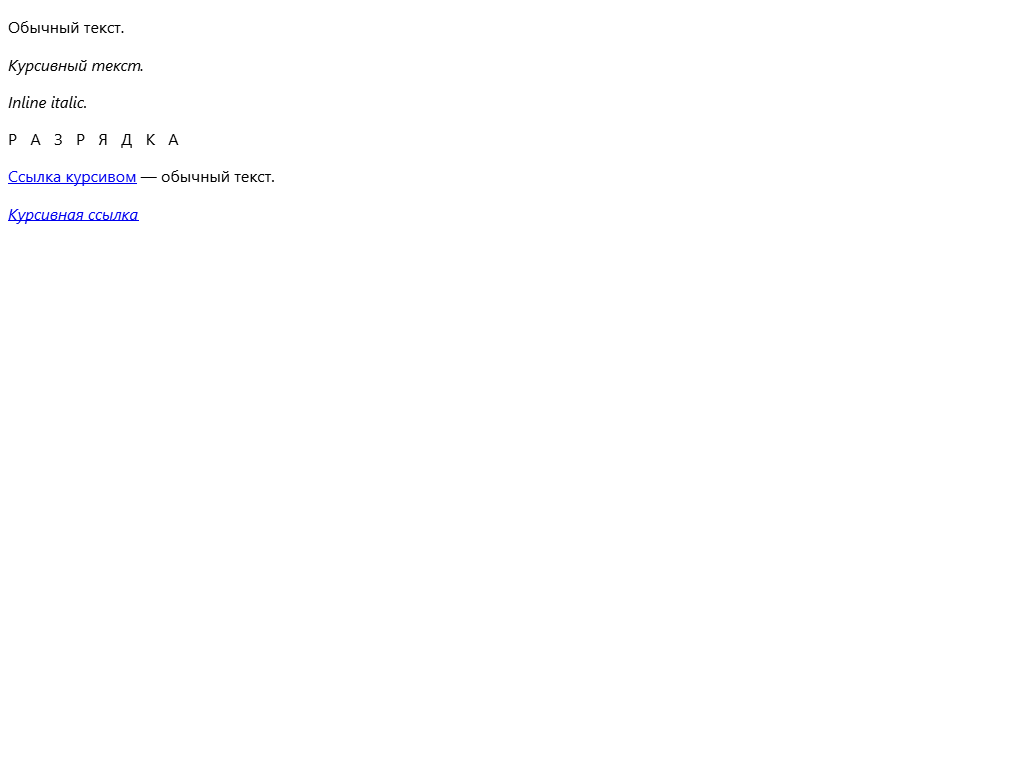
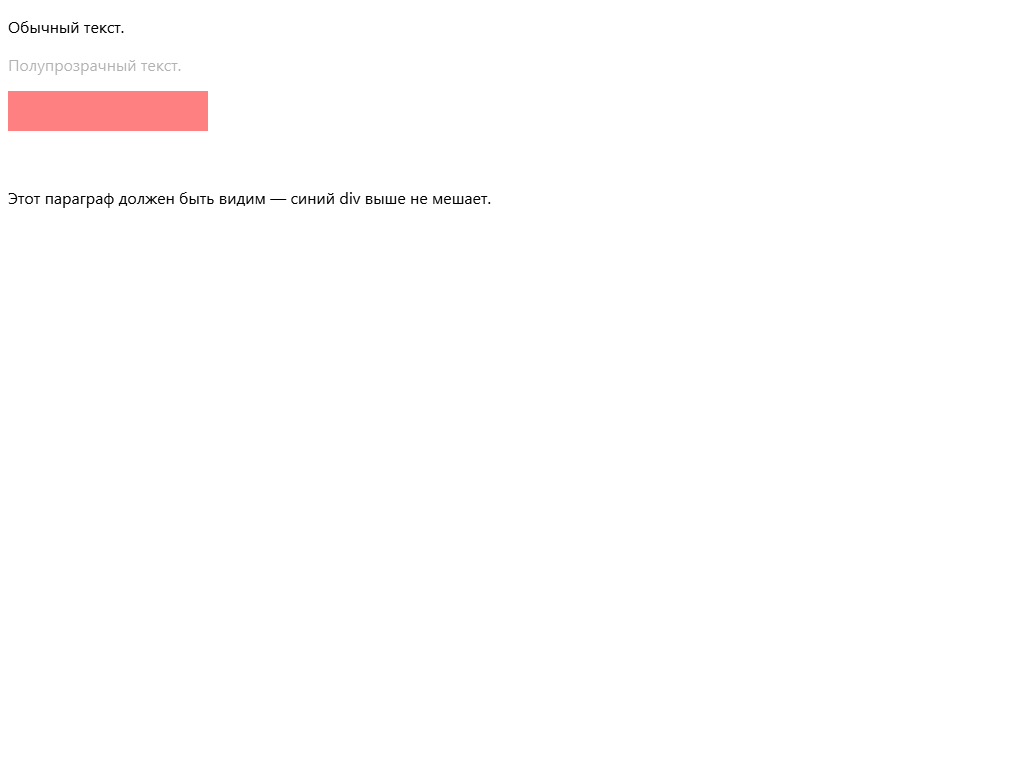
Feature: visibility: hidden + opacity
- DisplayItem: opacity field
- DisplayListBuilder: skip paint when hidden (layout still applies),
  carry opacity_q to every item
- Renderer (PNG + desktop ×2): QPainter::setOpacity per item
- Tests: 7 new [ltb][visibility] / [ltb][opacity], 111 total green

TODO: proper stacking context for nested opacity

Changed region(s): [[0.0, 0.0625, 0.2188, 0.1875], [0.0, 0.2188, 0.25, 0.3125], [0.2812, 0.25, 0.4688, 0.2812]]

diff --git a/test.html b/test.html
@@ -1,10 +1,9 @@
 <html>
 <body>
     <p>Обычный текст.</p>
-    <p><em>Курсивный текст.</em></p>
-    <p><span style="font-style: italic">Inline italic.</span></p>
-    <p><span style="letter-spacing: 3px">Р А З Р Я Д К А</span></p>
-    <p><a href="#">Ссылка курсивом</a> — обычный текст.</p>
-    <p><em><a href="#">Курсивная ссылка</a></em></p>
+    <p style="opacity: 0.3">Полупрозрачный текст.</p>
+    <div style="opacity: 0.5; background-color: red; width: 200px; height: 40px"></div>
+    <div style="visibility: hidden; background-color: blue; width: 200px; height: 40px"></div>
+    <p>Этот параграф должен быть видим — синий div выше не мешает.</p>
 </body>
 </html>

diff --git a/tests/layout_tree_builder_tests.cpp b/tests/layout_tree_builder_tests.cpp
@@ -1746,3 +1746,118 @@ TEST_CASE("LTB integration: <hr> border is gray",
     }
     REQUIRE(found_gray);
 }
+
+
+
+// ============================================================
+//  Этап 5: visibility: hidden + opacity
+// ============================================================
+
+TEST_CASE("LTB visibility: hidden skips own paint",
+    "[ltb][visibility]") {
+    ArenaAllocator arena;
+    auto p = run_pipeline(arena,
+        "<div style='visibility: hidden; background-color: red;"
+        "            width: 50px; height: 50px'></div>",
+        "html, body, div { display: block; margin: 0; padding: 0; }");
+
+    DisplayList dl = DisplayListBuilder::build(p.root.get(), p.storage);
+
+    // Ни одного красного rect быть не должно.
+    for (const auto& it : dl.items) {
+        if (it.type == DisplayItemType::Rect)
+            REQUIRE(it.color != 0xFF0000FFu);
+    }
+}
+
+TEST_CASE("LTB visibility: hidden still lays out children",
+    "[ltb][visibility]") {
+    // visibility: hidden не убирает из layout (в отличие от display: none).
+    ArenaAllocator arena;
+    auto p = run_pipeline(arena,
+        "<div style='visibility: hidden; height: 40px'></div>",
+        "html, body, div { display: block; margin: 0; padding: 0; }");
+
+    LayoutNode* body = child_of_type(p.root.get(), BoxType::Block);
+    REQUIRE(body != nullptr);
+    LayoutNode* div = child_of_type(body, BoxType::Block);
+    REQUIRE(div != nullptr);
+    REQUIRE(div->geometry.height == 40.0f);
+}
+
+TEST_CASE("LTB visibility: visible child inside hidden parent",
+    "[ltb][visibility]") {
+    ArenaAllocator arena;
+    auto p = run_pipeline(arena,
+        "<div style='visibility: hidden; background-color: red;"
+        "            width: 100px; height: 100px'>"
+        "  <span style='visibility: visible; background-color: blue;"
+        "               display: inline-block; width: 10px; height: 10px'></span>"
+        "</div>",
+        "html, body, div { display: block; margin: 0; padding: 0; }");
+
+    DisplayList dl = DisplayListBuilder::build(p.root.get(), p.storage);
+
+    bool has_red = false, has_blue = false;
+    for (const auto& it : dl.items) {
+        if (it.type != DisplayItemType::Rect) continue;
+        if (it.color == 0xFF0000FFu) has_red = true;
+        if (it.color == 0x0000FFFFu) has_blue = true;
+    }
+    REQUIRE_FALSE(has_red);
+    REQUIRE(has_blue);
+}
+
+TEST_CASE("LTB opacity: carried to DisplayItem",
+    "[ltb][opacity]") {
+    ArenaAllocator arena;
+    auto p = run_pipeline(arena,
+        "<span style='opacity: 0.5'>x</span>",
+        "html, body, span { display: inline; }");
+
+    DisplayList dl = DisplayListBuilder::build(p.root.get(), p.storage);
+    const DisplayItem* item = find_text_item(dl, "x");
+    REQUIRE(item != nullptr);
+    REQUIRE(item->opacity == Approx(0.5f).epsilon(0.01));
+}
+
+TEST_CASE("LTB opacity: zero carried to DisplayItem",
+    "[ltb][opacity]") {
+    ArenaAllocator arena;
+    auto p = run_pipeline(arena,
+        "<span style='opacity: 0'>x</span>",
+        "html, body, span { display: inline; }");
+
+    DisplayList dl = DisplayListBuilder::build(p.root.get(), p.storage);
+    const DisplayItem* item = find_text_item(dl, "x");
+    REQUIRE(item != nullptr);
+    REQUIRE(item->opacity == Approx(0.0f).epsilon(0.01));
+}
+
+TEST_CASE("LTB opacity: default is 1.0",
+    "[ltb][opacity]") {
+    ArenaAllocator arena;
+    auto p = run_pipeline(arena,
+        "<span>x</span>",
+        "html, body, span { display: inline; }");
+
+    DisplayList dl = DisplayListBuilder::build(p.root.get(), p.storage);
+    const DisplayItem* item = find_text_item(dl, "x");
+    REQUIRE(item != nullptr);
+    REQUIRE(item->opacity == Approx(1.0f).epsilon(0.01));
+}
+
+TEST_CASE("LTB opacity: not inherited",
+    "[ltb][opacity]") {
+    // opacity не наследуется: у span'а свой opacity_q = 255 (default),
+    // даже если у div'а 0.5.
+    ArenaAllocator arena;
+    auto p = run_pipeline(arena,
+        "<div style='opacity: 0.5'><span>x</span></div>",
+        "html, body, div { display: block; } span { display: inline; }");
+
+    DisplayList dl = DisplayListBuilder::build(p.root.get(), p.storage);
+    const DisplayItem* item = find_text_item(dl, "x");
+    REQUIRE(item != nullptr);
+    REQUIRE(item->opacity == Approx(1.0f).epsilon(0.01));
+}

diff --git a/src/parsers/selector_matcher/display_list_builder.h b/src/parsers/selector_matcher/display_list_builder.h
@@ -33,6 +33,8 @@ private:
         const float ay = oy + node->geometry.y;
         const float w = node->geometry.width;
         const float h = node->geometry.height;
+
+        // <br> — нет своего бокса, но обход детей продолжаем.
         if (node->style_soa_idx != UINT32_MAX) {
             const DOMNode* dom = storage.dom_nodes[node->style_soa_idx];
             if (dom && std::string_view(dom->tag_name.data(), dom->tag_name.size()) == "br") {
@@ -42,23 +44,48 @@ private:
             }
         }
 
-        // Background + borders � ������ � �������� Element-�����.
-        if ((node->type == BoxType::Block || node->type == BoxType::Inline)
+        // ---- Visibility и opacity ----
+        // visibility наследуется, поэтому для Text берём эффективный
+        // style_soa_idx (придёт от родителя).
+        // opacity не наследуется как свойство каскада; но для Text
+        // также используем effective — так текст визуально тускнеет
+        // внутри родителя с opacity < 1. Композитинг не реализован,
+        // это компромисс (TODO).
+        bool node_hidden = false;
+        float item_opacity = 1.0f;
+        {
+            const uint32_t si_eff =
+                (node->style_soa_idx != UINT32_MAX)
+                ? node->style_soa_idx
+                : (node->type == BoxType::Text)
+                ? effective_style_idx(node)
+                : UINT32_MAX;
+            if (si_eff != UINT32_MAX) {
+                const auto vis = storage.visibilities[si_eff];
+                node_hidden = (vis == style::Visibility::Hidden
+                    || vis == style::Visibility::Collapse);
+                item_opacity = storage.opacity_q[si_eff] / 255.0f;
+            }
+        }
+
+        // Background + borders — только для видимых real-element'ов.
+        if (!node_hidden
+            && (node->type == BoxType::Block || node->type == BoxType::Inline)
             && node->style_soa_idx != UINT32_MAX)
         {
             const uint32_t si = node->style_soa_idx;
 
             const uint32_t bg = storage.background_colors[si];
-            if ((bg & 0xFFu) != 0u) {  // alpha > 0
+            if ((bg & 0xFFu) != 0u) {
                 DisplayItem it;
                 it.type = DisplayItemType::Rect;
                 it.x = ax; it.y = ay; it.width = w; it.height = h;
                 it.color = bg;
+                it.opacity = item_opacity;
                 out.items.push_back(std::move(it));
             }
 
             const auto& g = node->geometry;
-
             const uint32_t top_color = storage.border_top_colors[si];
             const uint32_t right_color = storage.border_right_colors[si];
             const uint32_t bottom_color = storage.border_bottom_colors[si];
@@ -66,12 +93,12 @@ private:
 
             auto push_border = [&](float bx, float by, float bw, float bh,
                 uint32_t color) {
-                    // Alpha == 0 → граница невидима (transparent).
                     if ((color & 0xFFu) == 0u) return;
                     DisplayItem bi;
                     bi.type = DisplayItemType::Rect;
                     bi.x = bx; bi.y = by; bi.width = bw; bi.height = bh;
                     bi.color = color;
+                    bi.opacity = item_opacity;
                     out.items.push_back(std::move(bi));
                 };
 
@@ -87,8 +114,8 @@ private:
                     g.border_right, h, right_color);
         }
 
-        // �����.
-        if (node->type == BoxType::Text) {
+        // Text — только если узел видим.
+        if (!node_hidden && node->type == BoxType::Text) {
             const uint32_t si = effective_style_idx(node);
             DisplayItem it;
             it.type = DisplayItemType::Text;
@@ -111,6 +138,7 @@ private:
             it.overline = (static_cast<uint8_t>(dec) & 2u) != 0u;
             it.line_through = (static_cast<uint8_t>(dec) & 4u) != 0u;
 
+            it.opacity = item_opacity;
             out.items.push_back(std::move(it));
         }
 

diff --git a/src/widgets/src/BrowserView.cpp b/src/widgets/src/BrowserView.cpp
@@ -94,6 +94,7 @@ void BrowserCanvas::renderToBacking() {
 
     // Тот же цикл, что был в старом paintEvent.
     for (const auto& item : list_.items) {
+        p.setOpacity(item.opacity);
         const QColor color(int((item.color >> 24) & 0xFF),
             int((item.color >> 16) & 0xFF),
             int((item.color >> 8) & 0xFF),
@@ -145,6 +146,7 @@ void BrowserCanvas::renderToBacking() {
             break;
         }
         }
+        p.setOpacity(1.0);
     }
 }
 
@@ -179,6 +181,7 @@ void BrowserCanvas::paintEvent(QPaintEvent* ev) {
     p.setClipRect(ev->rect());
 
     for (const auto& item : list_.items) {
+        p.setOpacity(item.opacity);
         const QColor color(int((item.color >> 24) & 0xFF),
             int((item.color >> 16) & 0xFF),
             int((item.color >> 8) & 0xFF),
@@ -230,6 +233,7 @@ void BrowserCanvas::paintEvent(QPaintEvent* ev) {
             break;
         }
         }
+        p.setOpacity(1.0);
     }
 }
 void BrowserCanvas::mousePressEvent(QMouseEvent* ev) {

diff --git a/src/render/src/display_list_renderer.cpp b/src/render/src/display_list_renderer.cpp
@@ -36,6 +36,7 @@ QImage DisplayListRenderer::render(const DisplayList& list,
     p.setRenderHint(QPainter::SmoothPixmapTransform, false);
 
     for (const auto& item : list.items) {
+        p.setOpacity(item.opacity);
         switch (item.type) {
         case DisplayItemType::Rect: {
             const QColor c = QColor::fromRgba(css_to_qt(item.color));
@@ -78,6 +79,11 @@ QImage DisplayListRenderer::render(const DisplayList& list,
             break;
         }
         }
+        // TODO: opacity применяется поштучно. Вложенные элементы с
+        // opacity < 1 не композируются (родитель 0.5 × ребёнок 1.0
+        // должен давать 0.5, а не 1.0). Правильный stacking context
+        // — отдельная задача.
+        p.setOpacity(1.0);
     }
 
     p.end();   // �����������: ��������� QImage �� save()

diff --git a/src/parsers/selector_matcher/display_list.h b/src/parsers/selector_matcher/display_list.h
@@ -13,6 +13,10 @@ struct DisplayItem {
     float x{ 0.0f }, y{ 0.0f };
     float width{ 0.0f }, height{ 0.0f };
     uint32_t color{ 0x000000FFu };      // 0xRRGGBBAA
+    // Значение CSS opacity (0..1). Не наследуется, но применяется
+    // к каждому item'у — композитинг вложенных opacity не реализован,
+    // см. TODO в renderer'е.
+    float opacity{ 1.0f };
 
     // Только для Text:
     std::string text;
